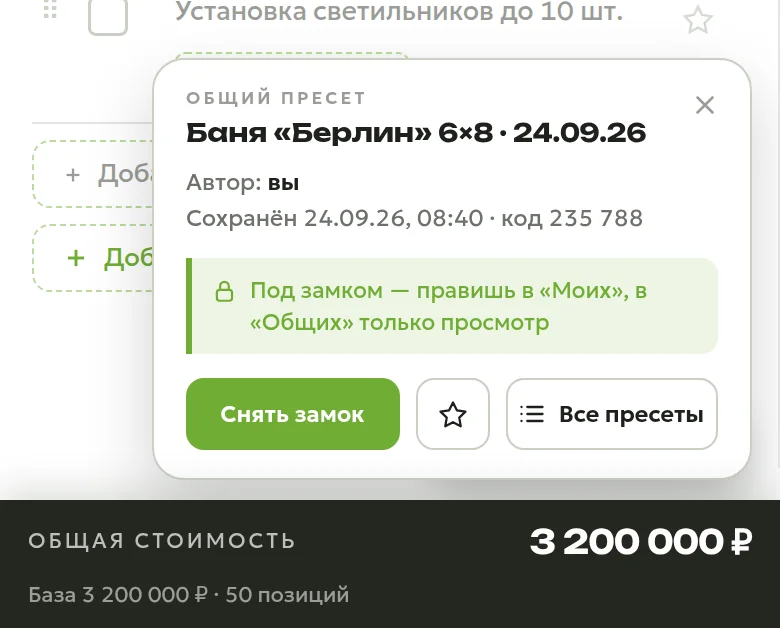
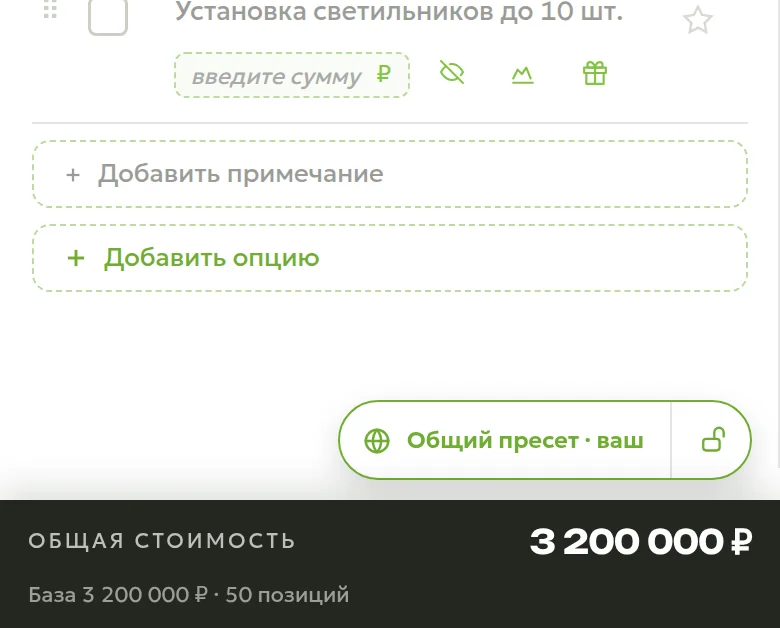
Статья v2.5.12: снимки пересняты на текущей сборке, новые — значки кнопки «Пресеты», значок в углу, настройки
Claude-Session: https://claude.ai/code/session_0193MmdtAKUBXVA2dgEFeikQ

diff --git a/scratchpad/probes/check_release_article.py b/scratchpad/probes/check_release_article.py
@@ -188,7 +188,11 @@ def прогон(бр, порт, ш, тон, ночь):
       return { номера, подменю: document.querySelectorAll('.sb .sb-s').length, меню: вид(document.querySelector('.sb')),
                кнопка: вид(к), кнопкаВысота: кр ? Math.round(кр.height) : 0, вПанели: document.querySelectorAll('#tocList a.s').length };
     }''')
-    if len(п["номера"]) != ПУНКТОВ or п["номера"][0] != "1.1" or п["номера"][-1] != "4.1":
+    # Последний номер — из самой статьи, как и число пунктов: раздел добавили —
+    # проба не ждёт прежнего «4.1» (27.09.2026 появился раздел «Оформление»).
+    разделы = re.findall(r'<section class="grp".*?</section>', СТАТЬЯ, re.S)
+    последний = (str(len(разделы)) + "." + str(разделы[-1].count('<div class="it">'))) if разделы else "?"
+    if len(п["номера"]) != ПУНКТОВ or п["номера"][0] != "1.1" or п["номера"][-1] != последний:
         плохо(f"{н} пункты разделов не пронумерованы: {п['номера'][:4]}…")
     if ш >= 900 and (not п["меню"] or п["подменю"] != ПУНКТОВ):
         плохо(f"{н} в меню статьи нет подпунктов разделов: {п['подменю']}")
